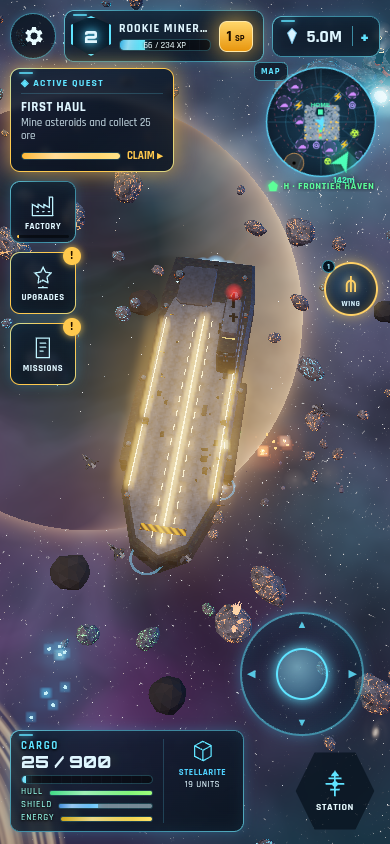
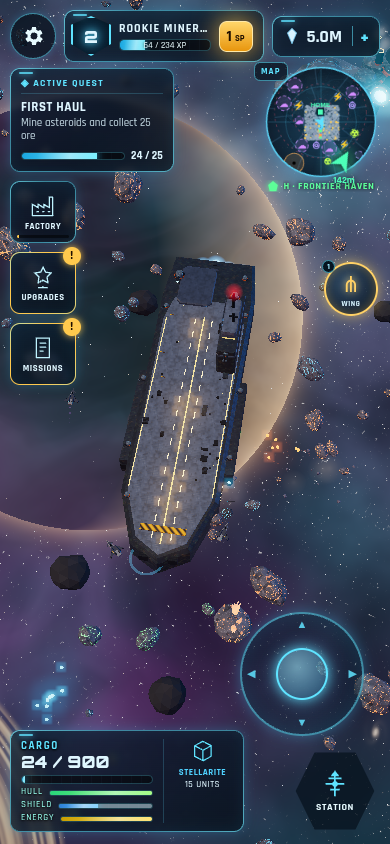
v8: concept-sheet fleet at true scale (15 hulls, class path, faction liveries, carrier wings, LOD), tests + shots/v8

diff --git a/PROGRESS.md b/PROGRESS.md
@@ -36,7 +36,6 @@ Branch `v8-wip` holds local WIP commits. `main` stays at v7 (45689c9) until v8 p
   - audio failed once because the old spawn point was inside the new dock radius; the spawn was then moved to z 62.
 
 ## Next
-1. Re-run audio, play, smoke5 and v8 after the spawn move and the dimmer carrier deck strips.
-2. Refresh shots/v8 with `node tests/v8.js` (lineup, factions, catalog, dreadnought, carrier launch, shipyard, station vs battlecruiser).
+1. (done 9:52 PM EST) Re-ran audio, play, smoke5 and v8 after the spawn move: all pass. shots/v8 refreshed.
 3. Merge v8-wip into main (fast-forward or squash), push, check the Pages build, then run the live tests: `SF_URL=https://elrond44.github.io/Stellar-Frontier/index.html node v8.js` (with NO_SHOTS=1) and smoke5.
 4. Report. The 4 promised songs are still outstanding: `tools/build_music.py` is ready and `music/tracks.json` is `[]`.
